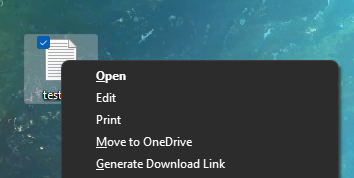
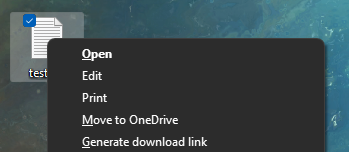
Update readme
Updated readme and screenshot.
Updated registry key to change the context menu text to sentence case.

diff --git a/README.md b/README.md
@@ -10,7 +10,7 @@ Restrictions:
 - Max 500 files or 50 GB per hour
 - Max 5,000 files or 100 GB per day
 
-There is no restriction on downloads.
+There are no restrictions on downloads.
 
 ## Building from source
 
@@ -19,8 +19,9 @@ There is no restriction on downloads.
 
 ### Building the MSI installer
 
-1. Install `cargo-wix`: run `cargo install cargo-wix`
-2. Run `cargo wix` to build the installer (add the `--install` flag to run the installer after building).
+1. Install the [WiX toolset](https://wixtoolset.org/). I recommend using [Scoop](https://scoop.sh/): `scoop install wixtoolset`. It will automatically install the latest version and add the binaries to your `Path`. Alternatively, download the WiX toolset from <https://wixtoolset.org/releases/> and add the `bin` folder to your `Path` manually.
+2. Install `cargo-wix`: run `cargo install cargo-wix`
+3. Run `cargo wix` to build the installer (add the `--install` flag to run the installer after building).
 
 The installer will be created in `target/wix`.
 The installer can be customized by editing the `wix/main.wxs` file. See the [WiX toolset documentation](https://wixtoolset.org/documentation/).
